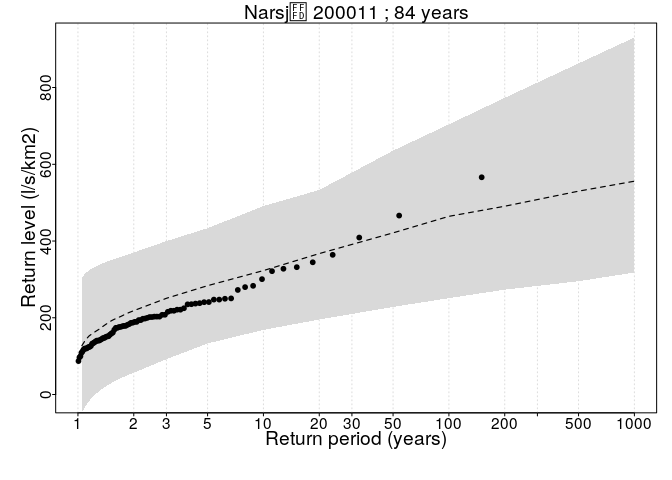
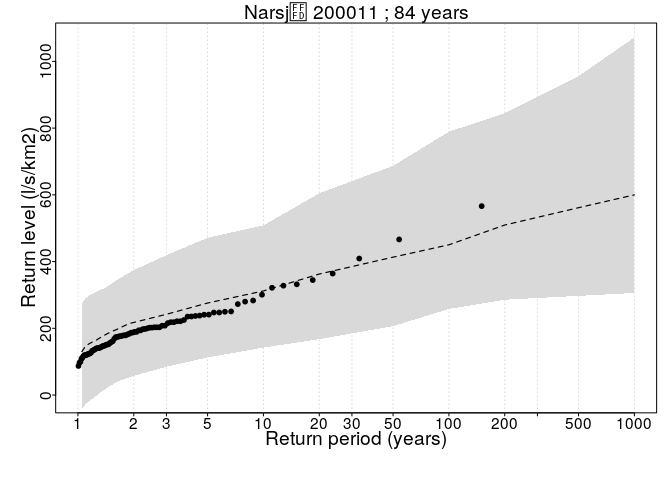
Update
Update

diff --git a/README.md b/README.md
@@ -1,6 +1,4 @@
 
-<!-- README.md is generated from README.Rmd. Please edit that file -->
-
 # Bayesian regional flood frequency analysis (FFA)
 
 This tutorial describes the data and analysis considered for Bayesian
@@ -32,7 +30,6 @@ percentage of lake, average rain in April and August and percentage of
 flood contributed to rain vs. snowmelt.
 
 ``` r
-
 # Define location for map plotting
 S <- cbind(covariates$longitude,covariates$latitude)
 
@@ -96,7 +93,6 @@ one for each station, to allow for difference serie lengths. The
 covariates are centered and scaled before analysis.
 
 ``` r
-
 ###
 # set the response variable
 ####
@@ -144,29 +140,29 @@ res$cov.names <- colnames(covMat)
 The result can be analysed by first removing a suitable range of burn-in
 samples, we seletion 20 000 or 20% of the total MCMC runs. The
 calculated the inclustion probabilities for each of the covariates
-within the location $ () $, scale $ () $, and shape $ () $ parameter of
-the GEV distribution.
+within the location \(\mu\), scale \(\log\kappa\), and shape \(\xi\)
+parameter of the GEV distribution.
 
-    #>                     mu kappa  xi
-    #> Constant           100   100 100
-    #> longitude           19    88  40
-    #> latitude            42    89   5
-    #> pct.eff.lake       100   100   0
-    #> inflow               0     0   0
-    #> avg.frac.rain        4    32  50
-    #> area.total           0     0   0
-    #> avg.rain.april      68    21   0
-    #> avg.rain.august     59   100   0
-    #> avg.snowmelt.march  16    38   2
-    #> gradient            79    16   0
-    #> pct.bedrock         60     8   0
-    #> relative.area       19   100  11
+    ##                     mu kappa  xi
+    ## Constant           100   100 100
+    ## longitude            0    62   0
+    ## latitude             0    86   1
+    ## pct.eff.lake        79   100   0
+    ## inflow               0    19  30
+    ## avg.frac.rain        0    89   0
+    ## area.total           0    29   0
+    ## avg.rain.april     100    24   0
+    ## avg.rain.august    100   100   6
+    ## avg.snowmelt.march   0    14   0
+    ## gradient            91    28   0
+    ## pct.bedrock        100    32   0
+    ## relative.area        0    91   0
 
 Then we plot the resulting distribution according to the quantiles or
 return values, e.g for 1000 year flood, we calculated the
 \(1 - 1/1000 = 0.999\) quantile. The random effects for each MCMC run
 are simulated from a Gaussian distribution with the corresponding
-variance $ 1/^{(r)} $, separately for each distribution parameter.
+variance \(1/\alpha^{(r)}\), separately for each distribution parameter.
 
 ``` r
 ##########################################
@@ -202,7 +198,8 @@ for (i in st.no) {
 plotReturnLevel(return.level = return.level,floodData = floodData,
                 floodCov = covariates,
                 T=T,writeToFile=FALSE,ymin=-0.01,ymax=NULL)
-#> [1] "200011" "200013"
 ```
+
+    ## [1] "200011" "200013"
 
 ![](README_files/figure-gfm/unnamed-chunk-8-1.png)<!-- -->![](README_files/figure-gfm/unnamed-chunk-8-2.png)<!-- -->
